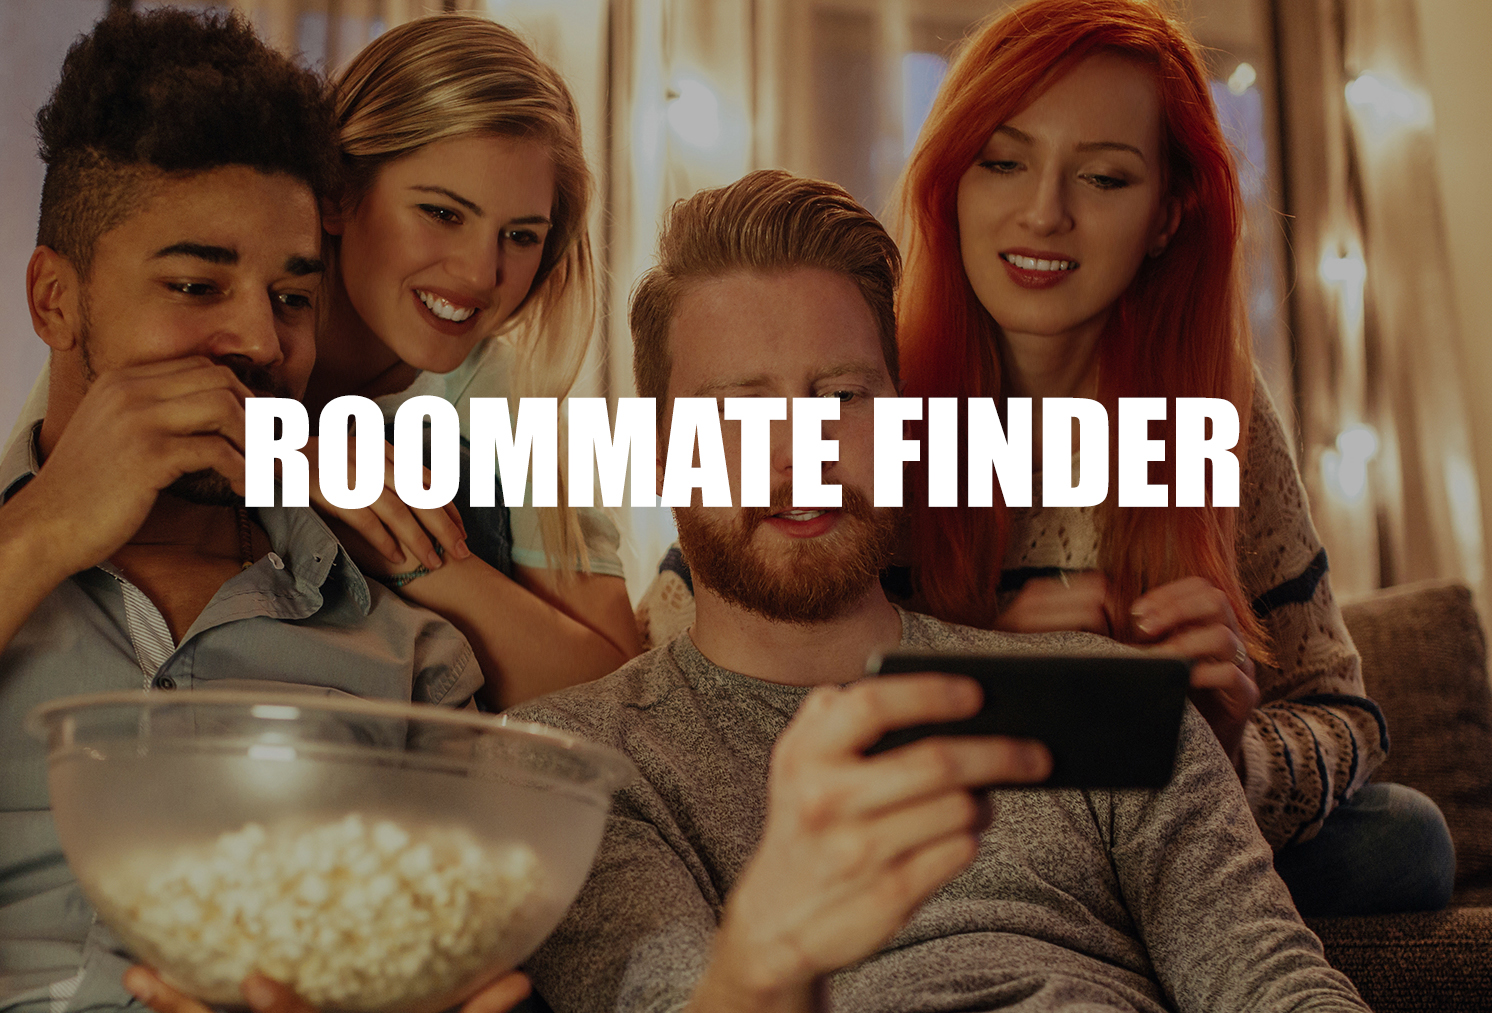
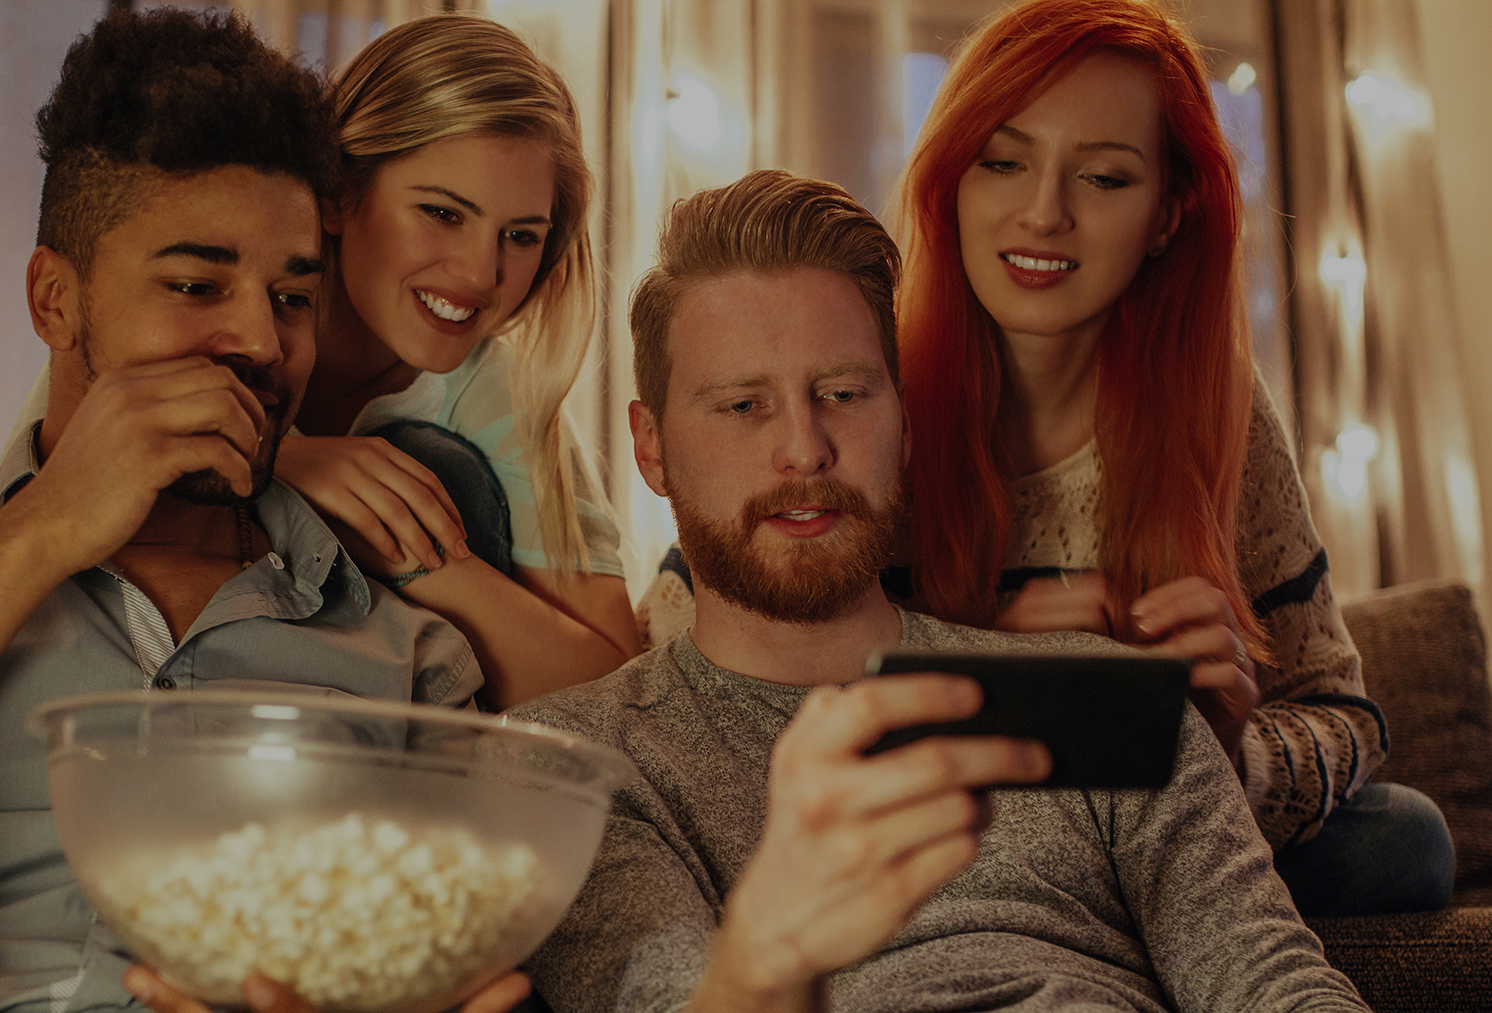
musi out, roommatefinder in

Changed region(s): [[0.1542, 0.3672, 0.8324, 0.5202]]

diff --git a/index.html b/index.html
@@ -87,7 +87,7 @@
                             </div>
                         </div>
                         <div class="container-portfolio">
-                            <div id="portfolio-musi" class="portfolio-item-spacing link-portfolio-item-spacing portoflio-section">
+                            <div id="portfolio-roommatefinder" class="portfolio-item-spacing link-portfolio-item-spacing portoflio-section">
                                 
                             </div>
                             <div id="portfolio-stormchaser" class="portoflio-item-large-nospace link-portoflio-item-large-nospace portoflio-section">
@@ -155,23 +155,23 @@
                     </div>
                 </div>
 
-                <div id="portfolio-musi-focus">
+                <div id="portfolio-roommatefinder-focus">
                     <div class="container container-focus">
                         <div class="focus">
-                            <div id="portfolio-musi" class="portfolio-focus">       
+                            <div id="portfolio-roommatefinder" class="portfolio-focus">       
                             </div>
                         </div>
                         <div class="focus focus-right">
-                            <h3 class="white" >Musi</h3>
+                            <h3 class="white" >Roommate Finder</h3>
                             <p class="p-white-focus">
-                                <b>Technology:</b> Ruby on Rails, Postgres
+                                <b>Technology:</b> React, Redux, Node, Express, MongoDB
                             </p> 
                             <p class="p-focus">
-                                Musi is an internet application that helps local musicians find each other.   
+                                Roommate Finder is an internet application that helps users find the perfect roommate.   
                             </p>
                             <div> 
                                 <p class="p-link">
-                                    <a href="http://musiapp.herokuapp.com/">Live</a> | <a href="https://github.com/jackseabolt/Musi">GitHub</a>
+                                    <a href="https://roommate-finder.netlify.com/">Live</a> | <a href="https://github.com/jackseabolt/roommate-finder-client">GitHub</a>
                                 </p>
                                 <button class="button-focus">Back</button>
                             </div>

diff --git a/main.js b/main.js
@@ -149,10 +149,10 @@ function focusBuzzkill() {
     $('#portfolio-buzzkill-focus').css('display', 'block');
 }
 
-function focusMusi() {
+function focusRoommatefinder() {
     $('#portfolio-all').hide(100);
     dropPortfolio();
-    $('#portfolio-musi-focus').css('display', 'block');
+    $('#portfolio-roommatefinder-focus').css('display', 'block');
 }
 
 function focusStormchaser() {
@@ -178,7 +178,7 @@ function toggleMain() {
     dropPortfolio();
     $('#portfolio-buzzkill-focus').css('display', 'none');
     $('#portfolio-albumreview-focus').css('display', 'none');
-    $('#portfolio-musi-focus').css('display', 'none');
+    $('#portfolio-roommatefinder-focus').css('display', 'none');
     $('#portfolio-stormchaser-focus').css('display', 'none');
     $('#portfolio-potusfacts-focus').css('display', 'none');
     $('#portfolio-ghostbusters-focus').css('display', 'none');
@@ -192,7 +192,7 @@ function main() {
     window.addEventListener('scroll', helloFadeIn);
     $('#portfolio-buzzkill').on('click', focusBuzzkill);
     $('#portfolio-albumreview').on('click', focusAlbumreview);
-    $('#portfolio-musi').on('click', focusMusi);
+    $('#portfolio-roommatefinder').on('click', focusRoommatefinder);
     $('#portfolio-potusfacts').on('click', focusPotusfacts);
     $('#portfolio-stormchaser').on('click', focusStormchaser);
     $('#portfolio-ghostbusters').on('click', focusGhostbusters);

diff --git a/main.css b/main.css
@@ -479,7 +479,7 @@ footer {
     background-size: cover;
 }
 
-#portfolio-musi {
+#portfolio-roommatefinder {
     background: url('./images/roommatefinder.jpg') no-repeat center; 
     -webkit-background-size: cover; 
     -moz-background-size: cover; 
